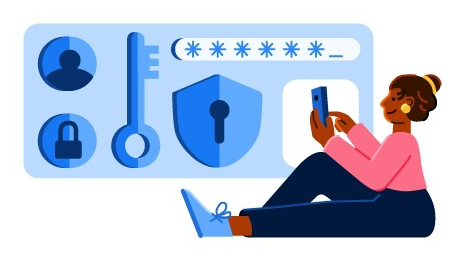
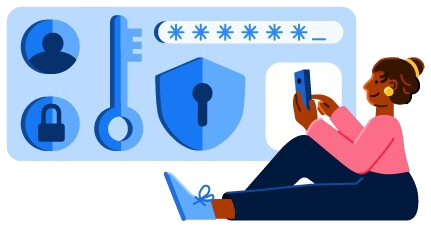
Hero illustration as transparent PNG without frame
Claude-Session: https://claude.ai/code/session_019FLCxxTP1ugRBB5ozkTjKe

diff --git a/index.html b/index.html
@@ -94,7 +94,8 @@ header{position:sticky;top:env(safe-area-inset-top,0px);z-index:20;background:va
 .hero-copy{display:grid;gap:22px;min-width:0}
 .hero-copy>p{color:var(--on-river-muted);font-size:1.08rem;max-width:56ch}
 .hero .eyebrow{color:var(--accent)}
-.hero-media{justify-self:center;width:min(100%,480px);background:#fff;border-radius:24px;padding:28px 22px;box-shadow:0 24px 60px rgba(0,8,60,.45)}
+.hero-media{justify-self:center;width:min(100%,520px)}
+.hero-media img{filter:drop-shadow(0 18px 40px rgba(0,8,60,.35))}
 .hero-media img{width:100%;height:auto;display:block}
 .cta-row{display:flex;flex-wrap:wrap;gap:12px}
 .badges{display:flex;flex-wrap:wrap;gap:8px 18px;font-size:.92rem;color:var(--on-river-muted);list-style:none;padding:0;margin:0}
@@ -360,7 +361,7 @@ footer .wrap{display:flex;flex-wrap:wrap;justify-content:space-between;gap:12px;
           ຕິດຕໍ່ທາງ WhatsApp</a>
       </div>
     </div>
-    <div class="hero-media"><img src="media/hero-illustration.png" alt="ການປົກປ້ອງບັນຊີ ແລະ ລະຫັດຜ່ານ" width="466" height="263"></div>
+    <div class="hero-media"><img src="media/hero-illustration.png" alt="ການປົກປ້ອງບັນຊີ ແລະ ລະຫັດຜ່ານ" width="432" height="229"></div>
   </div>
 </section>
 
